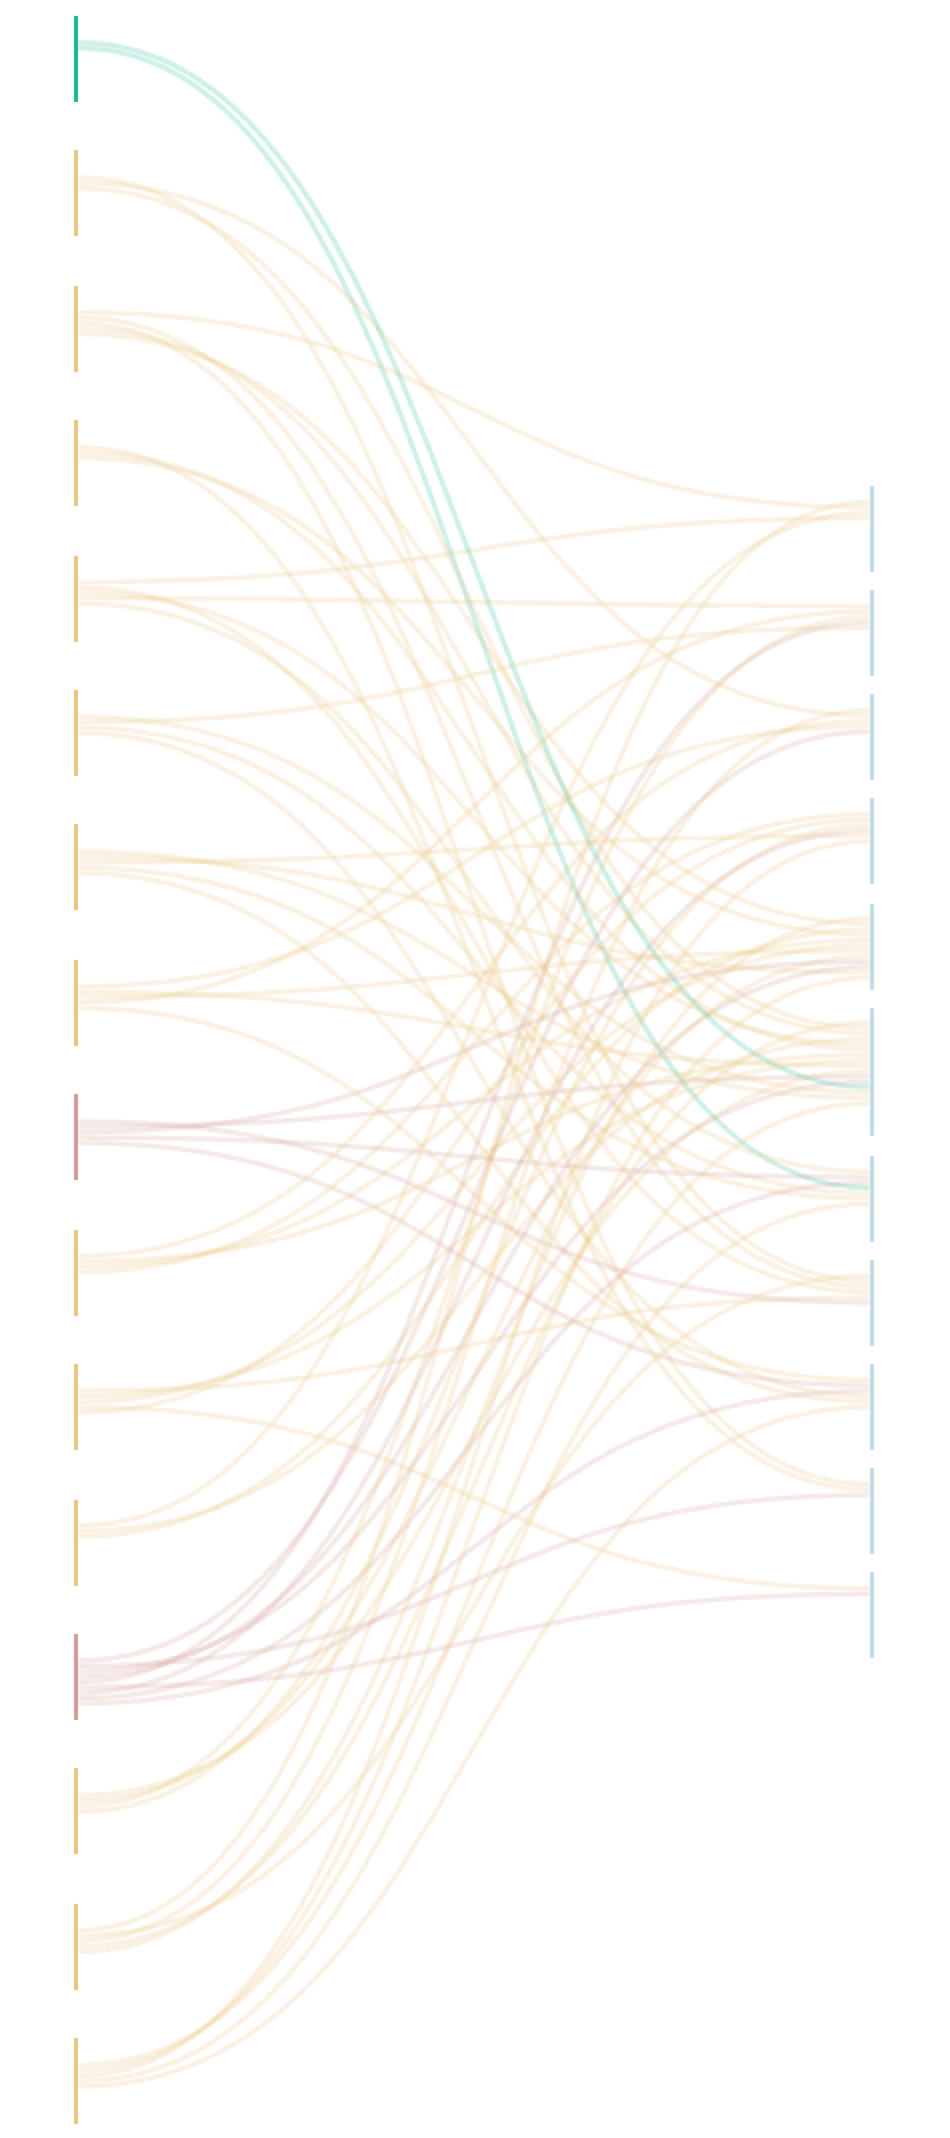
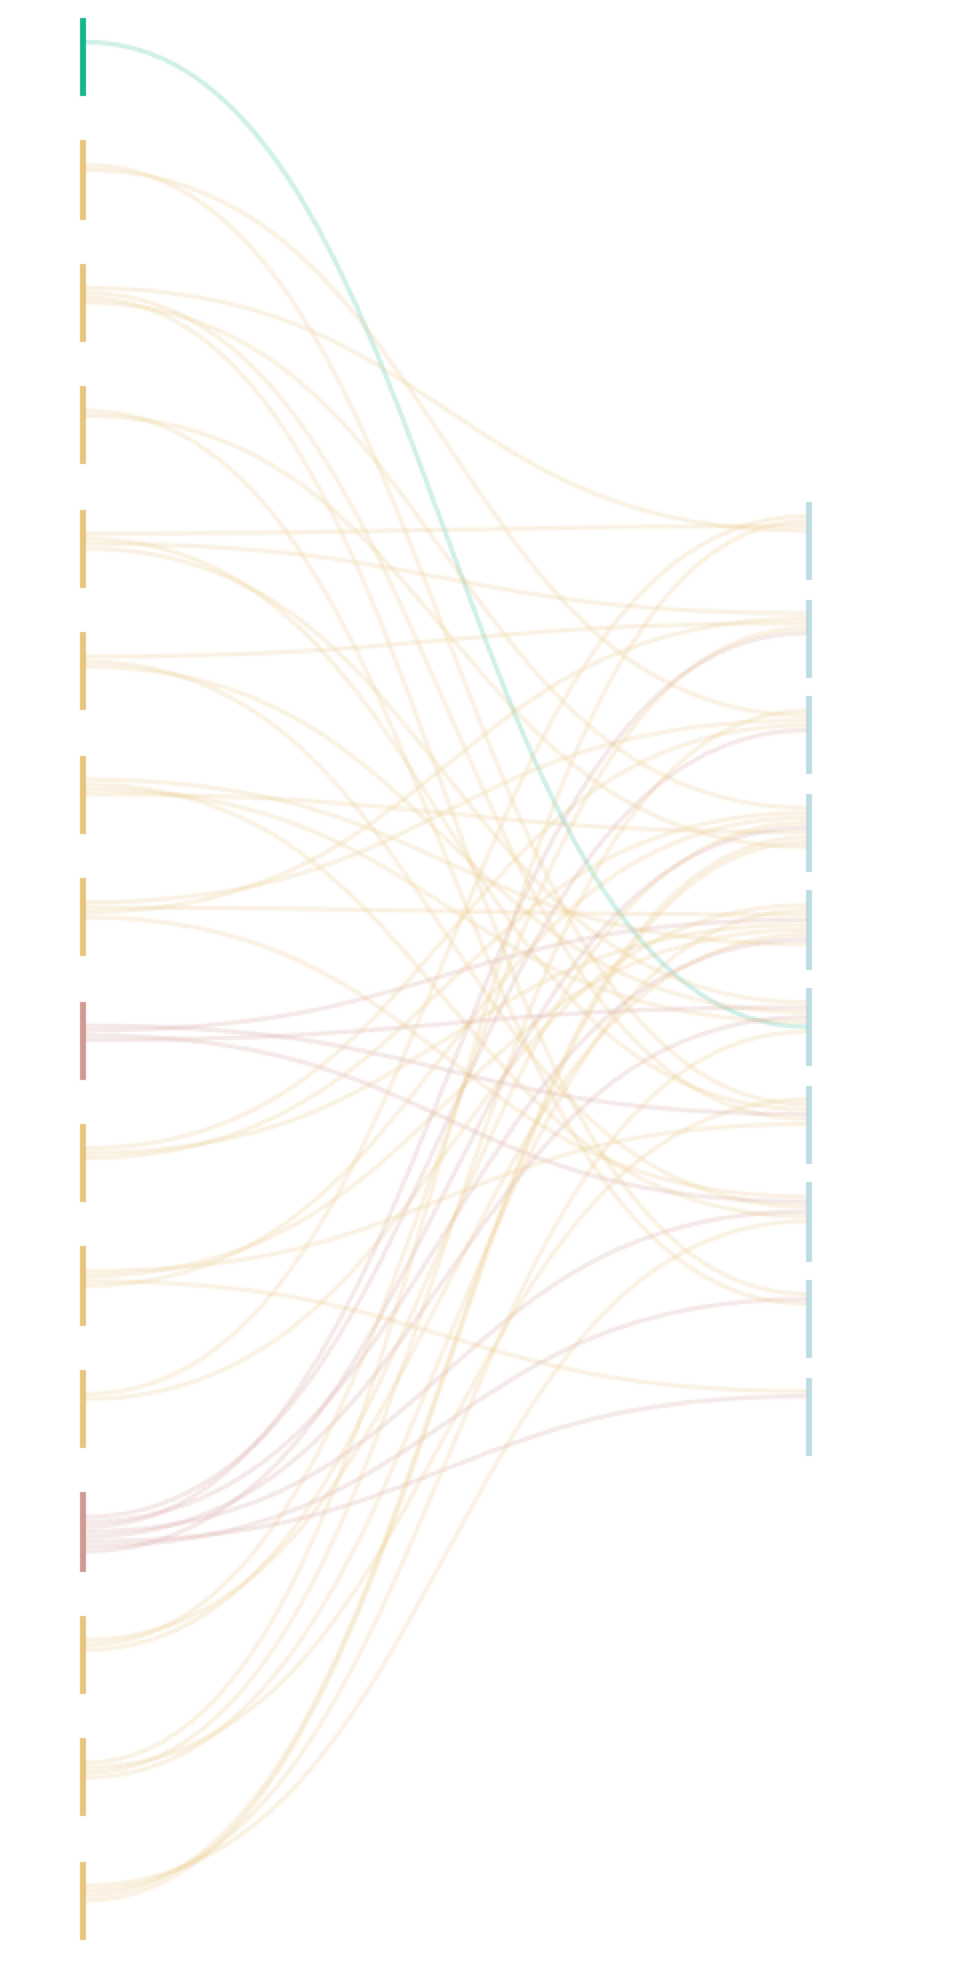
delete right central rect in link-graph

Changed region(s): [[0.0611, 0.0, 0.9463, 0.9919]]

diff --git a/lib/guide-goodness.js b/lib/guide-goodness.js
@@ -354,7 +354,7 @@ export function linkGraph(parent, config) {
 
     var yR = d3.scaleLinear()
         .domain([0, 9])
-        .range([364 - 0, 950 - 70]);
+        .range([632-300,632+300]);
 
     // console.log(input.nodes)
 
@@ -368,10 +368,11 @@ export function linkGraph(parent, config) {
                 return 'translate(' + d.x + ',' + (d.y = yL(i)) + ')';
             } else {
                 var seperation = 0;
+                console.log(seperation)
 
-                if (i > 21) {
-                    seperation = 0
-                }
+                // if (i > 16) {
+                //     seperation = 30
+                // }
                 return 'translate(' + d.x + ',' + (d.y = yR(i - 16) + seperation) + ')';
             }
         });
